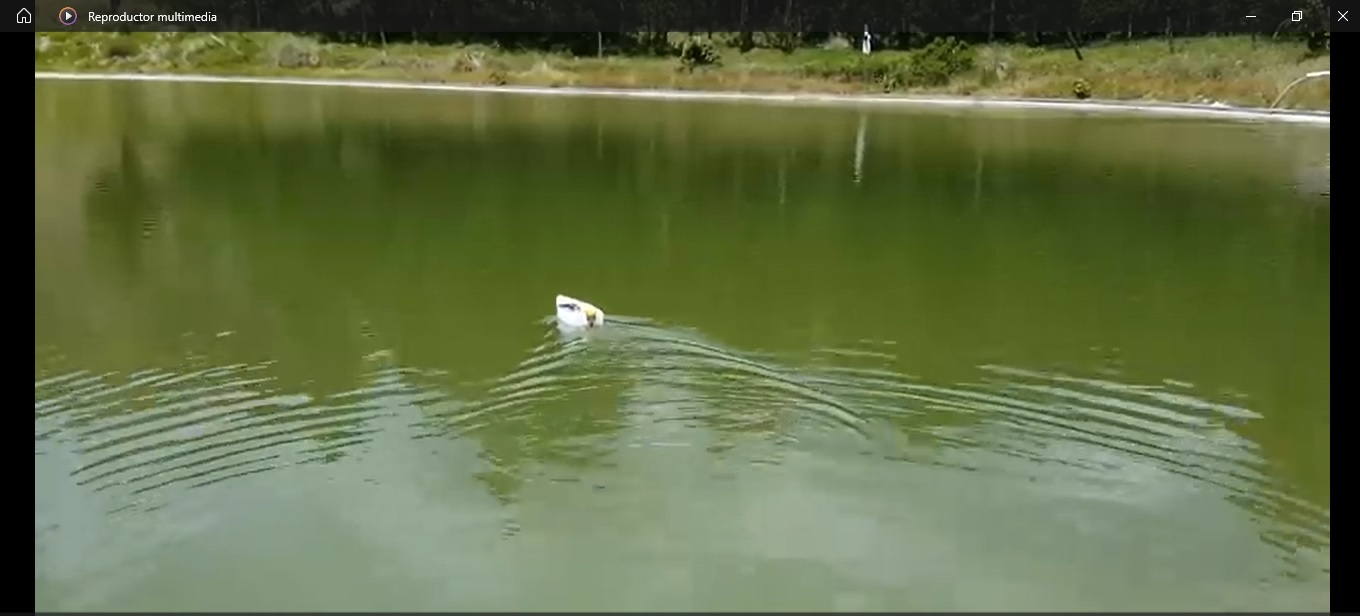
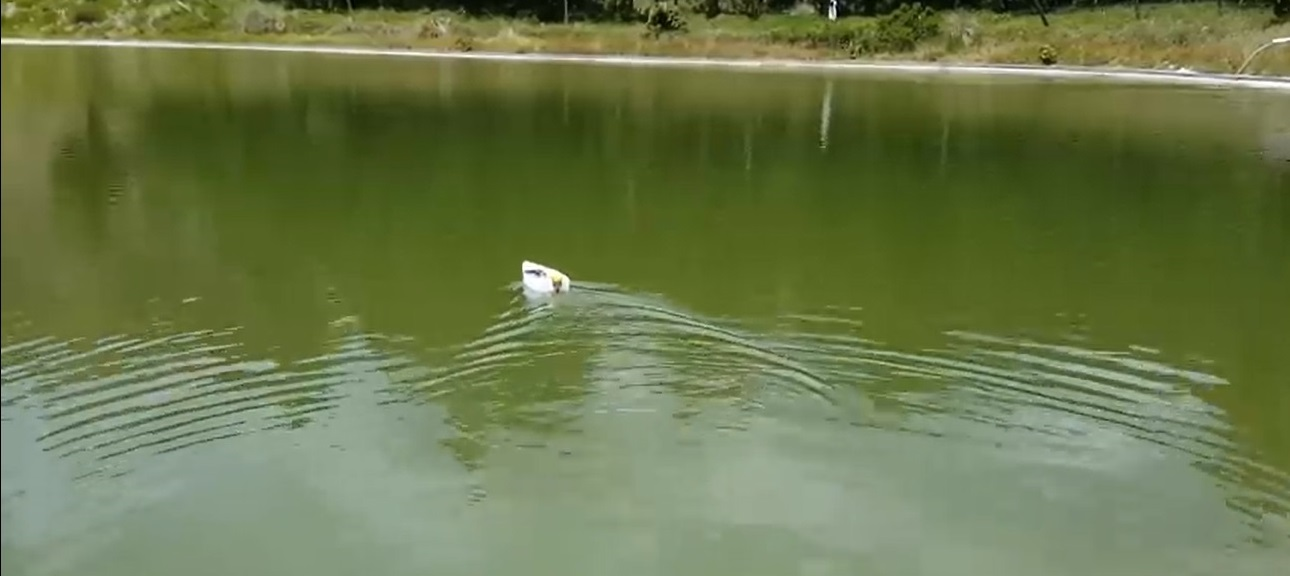
horizonte inclinado

diff --git a/src/imagen_inclinada.py b/src/imagen_inclinada.py
@@ -1,0 +1,76 @@
+import cv2
+import numpy as np
+
+def encontrar_linea_mas_larga(contornos):
+    # Inicializar variables para almacenar la línea más larga encontrada
+    max_length = 0
+    best_line = None
+
+    # Iterar sobre todos los contornos
+    for contorno in contornos:
+        # Calcular la longitud del contorno
+        longitud = cv2.arcLength(contorno, True)
+        # Actualizar la línea más larga si encontramos una más larga
+        if longitud > max_length:
+            max_length = longitud
+            # Ajustar la línea a la del contorno
+            best_line = cv2.approxPolyDP(contorno, 0.02 * longitud, True)
+
+    return best_line
+
+# Cargar la imagen
+image_path = "C:/Users/lichi/Desktop/Tesis/detector-obstaculos-logica-difusa/img/barco.jpg"
+image = cv2.imread(image_path)
+
+# Convertir la imagen a escala de grises
+gray = cv2.cvtColor(image, cv2.COLOR_BGR2GRAY)
+
+# Aplicar un umbral adaptativo para mejorar el contraste
+adaptive_threshold = cv2.adaptiveThreshold(gray, 255, cv2.ADAPTIVE_THRESH_GAUSSIAN_C,
+                                           cv2.THRESH_BINARY, 11, 2)
+
+# Aplicar un filtro de Canny con los nuevos umbrales
+edges = cv2.Canny(adaptive_threshold, 80000, 220000, apertureSize=7)
+
+# Encontrar todos los contornos en los bordes detectados
+contornos, _ = cv2.findContours(edges, cv2.RETR_EXTERNAL, cv2.CHAIN_APPROX_SIMPLE)
+
+# Encontrar la línea más larga entre los contornos
+linea_mas_larga = encontrar_linea_mas_larga(contornos)
+
+# Dibujar la línea más larga encontrada
+if linea_mas_larga is not None:
+    # Obtener los extremos de la línea
+    x1, y1 = tuple(linea_mas_larga[0][0])
+    x2, y2 = tuple(linea_mas_larga[-1][0])
+
+    # Extender la línea hasta los bordes de la imagen
+    ancho, alto = image.shape[1], image.shape[0]
+    m = (y2 - y1) / (x2 - x1)
+    b = y1 - m * x1
+    y1_nuevo = int(m * 0 + b)
+    y2_nuevo = int(m * (ancho - 1) + b)
+
+    # Dibujar la línea prolongada
+    cv2.line(image, (0, y1_nuevo), (ancho - 1, y2_nuevo), (0, 255, 0), 2)
+
+# Mostrar la imagen resultante
+resized_image = cv2.resize(image, (600, 600))
+cv2.imshow('Imagen con Línea Más Larga Prolongada', resized_image)
+cv2.waitKey(0)
+cv2.destroyAllWindows()
+
+
+    # Aplicar un filtro de Canny para detectar bordes
+    #edges = cv2.Canny(adaptive_threshold, 80000, 220000, apertureSize=7)
+    
+
+# Cargar la imagen
+#image_path = "C:/Users/lichi/Desktop/Tesis/detector-obstaculos-logica-difusa/img/ruta-vista-inclinada-que-cruza-horizonte.jpg"
+
+
+
+
+
+
+

diff --git a/src/horizonte_inclinado.py b/src/horizonte_inclinado.py
@@ -1,0 +1,55 @@
+import cv2
+import numpy as np
+
+def encontrar_linea_mas_larga(contornos):
+    # Inicializar variables para almacenar la línea más larga encontrada
+    max_length = 0
+    best_line = None
+
+    # Iterar sobre todos los contornos
+    for contorno in contornos:
+        # Calcular la longitud del contorno
+        longitud = cv2.arcLength(contorno, True)
+        # Actualizar la línea más larga si encontramos una más larga
+        if longitud > max_length:
+            max_length = longitud
+            # Ajustar la línea a la del contorno
+            best_line = cv2.approxPolyDP(contorno, 0.02 * longitud, True)
+
+    return best_line
+
+# Función para detectar el horizonte, tanto horizontal como inclinado
+def detectar_horizonte(image_path):
+    # Cargar la imagen
+    image = cv2.imread(image_path)
+
+    # Verificar si la imagen se ha cargado correctamente
+    if image is None:
+        raise ValueError("La imagen no se pudo cargar. Verifica la ruta del archivo y asegúrate de que el archivo exista.")
+
+    # Convertir la imagen a escala de grises
+    gray = cv2.cvtColor(image, cv2.COLOR_BGR2GRAY)
+
+    # Aplicar un filtro de Canny para detectar los bordes
+    edges = cv2.Canny(gray, 50, 150, apertureSize=3)
+
+    # Encontrar los contornos en los bordes detectados
+    contornos, _ = cv2.findContours(edges, cv2.RETR_EXTERNAL, cv2.CHAIN_APPROX_SIMPLE)
+
+    # Encontrar la línea más larga entre los contornos
+    linea_mas_larga = encontrar_linea_mas_larga(contornos)
+
+    # Dibujar la línea más larga encontrada
+    if linea_mas_larga is not None:
+        cv2.drawContours(image, [linea_mas_larga], -1, (0, 255, 0), 2)
+
+    # Mostrar la imagen con el horizonte detectado
+    resized_image = cv2.resize(image, (600, 600))  # Aumentar el tamaño para mejor visualización
+    cv2.imshow('Horizon Detection', resized_image)
+    cv2.waitKey(0)
+    cv2.destroyAllWindows()
+
+# Ruta a la imagen
+image_path = "C:/Users/lichi/Desktop/Tesis/detector-obstaculos-logica-difusa/img/sintitulo.jpg"
+detectar_horizonte(image_path)
+

diff --git a/src/horizonte_mar_rojo_cielo_azul.py b/src/horizonte_mar_rojo_cielo_azul.py
@@ -41,7 +41,7 @@ def detect_horizon(image_path):
     cv2.destroyAllWindows()
 
 # Ruta a la imagen
-image_path = "C:/Users/lichi/Desktop/Tesis/detector-obstaculos-logica-difusa/img/sintitulo.jpg"
+image_path = "C:/Users/lichi/Desktop/Tesis/detector-obstaculos-logica-difusa/img/ruta-vista-inclinada-que-cruza-horizonte.jpg"
 detect_horizon(image_path)
 
 
